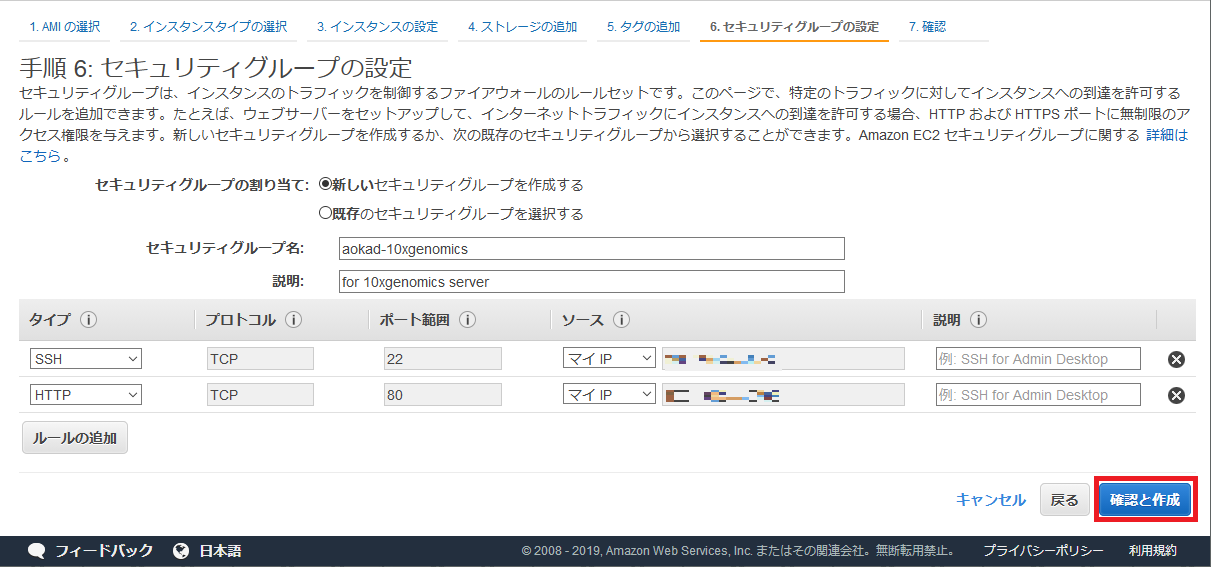
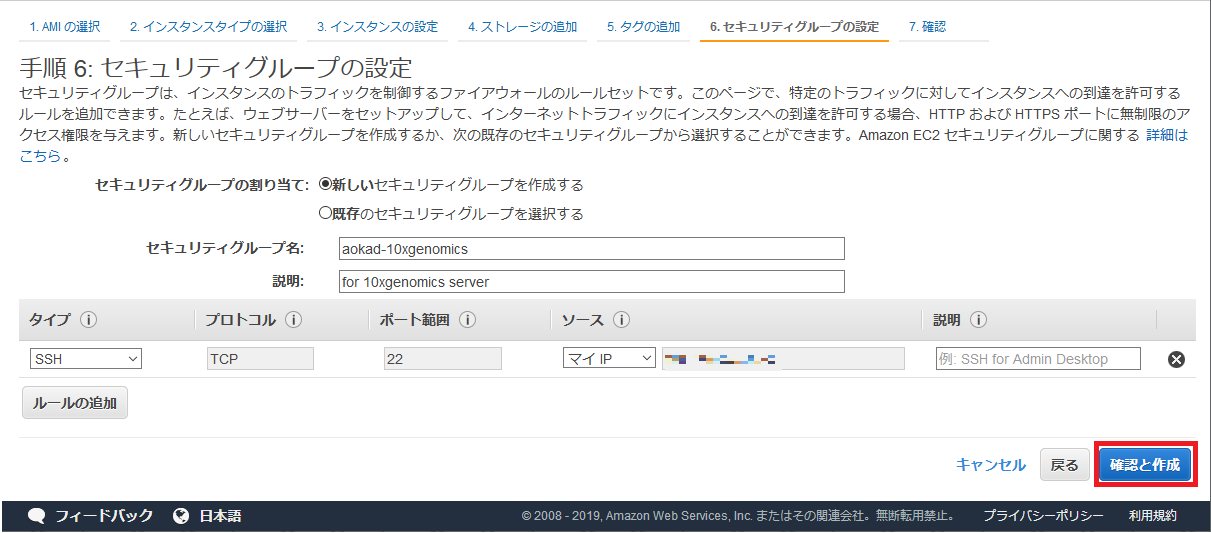
update versions

diff --git a/cellranger/html/99_ui.html b/cellranger/html/99_ui.html
@@ -11,21 +11,19 @@
 <a id="user-content-option-cell-ranger-ユーザインタフェースの利用" class="anchor" href="#option-cell-ranger-%E3%83%A6%E3%83%BC%E3%82%B6%E3%82%A4%E3%83%B3%E3%82%BF%E3%83%95%E3%82%A7%E3%83%BC%E3%82%B9%E3%81%AE%E5%88%A9%E7%94%A8" aria-hidden="true"><span aria-hidden="true" class="octicon octicon-link"></span></a>Option. Cell Ranger ユーザインタフェースの利用</h2>
 <p>cellranger パイプラインにはユーザインターフェールが用意されています。</p>
 <p>公式ドキュメント：<a href="https://support.10xgenomics.com/single-cell-gene-expression/software/pipelines/latest/advanced/ui" rel="nofollow">The Cell Ranger User Interface</a></p>
-<p>公開ポートはランダムなため、 <code>--uiport=80</code> をつけて80番固定することができます。<br>
-ユーザインターフェースの場所は実行ログに記載されています。</p>
-<pre><code>$ cellranger mkfastq --id=tiny-bcl5 --run=./data/cellranger-tiny-bcl-1.2.0 --samplesheet=./cellranger-tiny-bcl-samplesheet-1.2.0.csv --qc --uiport=80
+<p>ユーザインターフェースの場所は実行ログに記載されています。</p>
+<div class="highlight highlight-source-shell"><pre>$ cellranger mkfastq --id=tiny-bcl5 --run=./data/cellranger-tiny-bcl-1.2.0 --samplesheet=./cellranger-tiny-bcl-samplesheet-1.2.0.csv --qc --uiport=80
 /work/cellranger-3.0.2/cellranger-cs/3.0.2/bin
 cellranger mkfastq (3.0.2)
 Copyright (c) 2019 10x Genomics, Inc.  All rights reserved.
 -------------------------------------------------------------------------------
 
-Martian Runtime - '3.0.2-v3.2.0'
-Serving UI at http://ip-172-31-40-38:80?auth=sAsFRDQ4tBKJ9OGNG-7gJSWwPC9_8CfG3alhmyj0BC0 # &lt;- ★ここ
+Martian Runtime - <span class="pl-s"><span class="pl-pds">'</span>3.0.2-v3.2.0<span class="pl-pds">'</span></span>
+Serving UI at http://ip-172-31-40-38:80<span class="pl-k">?</span>auth=sAsFRDQ4tBKJ9OGNG-7gJSWwPC9_8CfG3alhmyj0BC0 <span class="pl-c"><span class="pl-c">#</span> &lt;- ★ここ</span>
 
 Running preflight checks (please wait)...
-（以下省略）
-</code></pre>
-<p>AWS インスタンスを使用していると、デフォルトで内部ネットワークアドレスが表示されていますので、外部ネットワークアドレスに読み直してアクセスします。</p>
+（以下省略）</pre></div>
+<p>AWS インスタンスで実行している、内部ネットワークアドレスが表示されていますので、外部ネットワークアドレスに読み直してアクセスします。</p>
 <p>インスタンスの外部ネットワークアドレスは以下のようにして取得することができます。</p>
 <p>AWS マネジメントコンソールから ec2 サービスを選択します。<br>
 左端のメニューから「インスタンス」を選択した後、目的のインスタンスを選択します。<br>
@@ -38,7 +36,28 @@ Running preflight checks (please wait)...
 <p><a href="../image/pipeline_monitoring_ui.PNG" target="_blank" rel="noopener noreferrer"><img src="../image/pipeline_monitoring_ui.PNG" alt="" style="max-width:100%;"></a></p>
 <p>より詳しい解説は <a href="https://support.10xgenomics.com/single-cell-gene-expression/software/pipelines/latest/advanced/ui" rel="nofollow">The Cell Ranger User Interface</a> を参照してください。</p>
 <hr>
-<p>以上です。</p>
+<p>※ 注意１</p>
+<p>AWS インスタンスにはセキュリティグループがあり、ポート番号を指定してアクセスを許可する必要があります。<br>
+以下の手順で設定します。</p>
+<p>AWS マネジメントコンソールから ec2 サービスを選択します。<br>
+左端のメニューから「インスタンス」を選択した後、現在のインスタンスを選択します。<br>
+右下にインスタンスの情報が記載されていますので、そこから「セキュリティグループ」のリンクをクリックします。</p>
+<p><a href="../image/ec2_35.PNG" target="_blank" rel="noopener noreferrer"><img src="../image/ec2_35.PNG" alt="" style="max-width:100%;"></a></p>
+<p>セキュリティグループの画面が表示されますので、「インバウンド」→「編集」とクリックして、セキュリティグループの編集画面を表示します。<br>
+「ルールの追加」ボタンをクリックして行を追加し、ポート番号を入力します。<br>
+アクセスを許可する IP アドレス範囲 (「マイIP」を選択すると、現在の自分のIPアドレスを設定できます) を入力したら「保存」を押してください。</p>
+<p><a href="../image/ec2_36.PNG" target="_blank" rel="noopener noreferrer"><img src="../image/ec2_36.PNG" alt="" style="max-width:100%;"></a></p>
+<p>※ 注意２<br>
+公開ポートはランダムなため、 <code>--uiport=3600</code> のように <code>--uiport</code> オプションをつけることで固定することができます。</p>
+<p>ただし、Linux では TCP/IP ポート番号のうち 1024 未満は特権ポート (privileged ports) といい、特権プロセス（CAP_NET_BIND_SERVICE ケーパビリティを持つプロセス）でないとアクセスできません。<br>
+そのため、3600 など 1024 以上のポート番号を指定したほうがよいでしょう。</p>
+<hr>
+<p>以上です。
+不要になった AWS インスタンスは適宜停止するか削除してください。</p>
+<ul>
+<li><a href="./aws_ec2_instance.html">AWS EC2 を利用する場合</a></li>
+<li><a href="./aws_cloud9.html">AWS Cloud9 を利用する場合</a></li>
+</ul>
 
 </body>
 </html>

diff --git a/cellranger/html/01_set_up.html b/cellranger/html/01_set_up.html
@@ -73,7 +73,7 @@ mount /dev/sdb /work
 <p><a href="../image/download1.PNG" target="_blank" rel="noopener noreferrer"><img src="../image/download1.PNG" alt="" style="max-width:100%;"></a></p>
 <p>ダウンロードしたファイルを解凍します。<br>
 ファイル名のバージョンはダウンロードしたファイルに合わせてください。</p>
-<div class="highlight highlight-source-shell"><pre>tar -xzvf cellranger-3.0.2.tar.gz</pre></div>
+<div class="highlight highlight-source-shell"><pre>tar -xzvf cellranger-3.1.0.tar.gz</pre></div>
 <h3>
 <a id="user-content-1-3-リファレンスファイルをダウンロードして解凍する" class="anchor" href="#1-3-%E3%83%AA%E3%83%95%E3%82%A1%E3%83%AC%E3%83%B3%E3%82%B9%E3%83%95%E3%82%A1%E3%82%A4%E3%83%AB%E3%82%92%E3%83%80%E3%82%A6%E3%83%B3%E3%83%AD%E3%83%BC%E3%83%89%E3%81%97%E3%81%A6%E8%A7%A3%E5%87%8D%E3%81%99%E3%82%8B" aria-hidden="true"><span aria-hidden="true" class="octicon octicon-link"></span></a>1-3. リファレンスファイルをダウンロードして解凍する</h3>
 <p>1-2 で開いたダウンロード画面にリファレンスのダウンロードコマンドも表示されています。<br>
@@ -81,11 +81,11 @@ mount /dev/sdb /work
 <p><a href="../image/download2.PNG" target="_blank" rel="noopener noreferrer"><img src="../image/download2.PNG" alt="" style="max-width:100%;"></a></p>
 <p>1-2 と同様にダウンロードしたファイルを解凍します。<br>
 ファイル名のバージョンはダウンロードしたファイルに合わせてください。</p>
-<div class="highlight highlight-source-shell"><pre>tar -xzvf refdata-cellranger-GRCh38-3.0.0.tar.gz</pre></div>
+<div class="highlight highlight-source-shell"><pre>tar -xzvf refdata-cellranger-GRCh38-and-mm10-3.1.0.tar.gz</pre></div>
 <h3>
 <a id="user-content-1-4-cell-ranger-にパスを通す" class="anchor" href="#1-4-cell-ranger-%E3%81%AB%E3%83%91%E3%82%B9%E3%82%92%E9%80%9A%E3%81%99" aria-hidden="true"><span aria-hidden="true" class="octicon octicon-link"></span></a>1-4. Cell Ranger にパスを通す</h3>
 <p>Cell Ranger ディレクトリを PATH に追加します。これで <code>cellranger</code> コマンドを起動することができます。</p>
-<div class="highlight highlight-source-shell"><pre><span class="pl-k">export</span> PATH=/work/cellranger-3.0.2:<span class="pl-smi">$PATH</span></pre></div>
+<div class="highlight highlight-source-shell"><pre><span class="pl-k">export</span> PATH=/work/cellranger-3.1.0:<span class="pl-smi">$PATH</span></pre></div>
 <h3>
 <a id="user-content-1-5-インストールの確認" class="anchor" href="#1-5-%E3%82%A4%E3%83%B3%E3%82%B9%E3%83%88%E3%83%BC%E3%83%AB%E3%81%AE%E7%A2%BA%E8%AA%8D" aria-hidden="true"><span aria-hidden="true" class="octicon octicon-link"></span></a>1-5. インストールの確認</h3>
 <p>cellranger パイプラインが正しくインストールされていることを確認するために <code>cellranger testrun</code> を実行します。</p>
@@ -101,7 +101,7 @@ mount /dev/sdb /work
 <p>前述までに cellranger パイプラインをインストールしましたが、イルミナの <code>bcl2fastq2</code> は入っていませんので、別途インストールする必要があります。</p>
 <div class="highlight highlight-source-shell"><pre>wget http://jp.support.illumina.com/content/dam/illumina-support/documents/downloads/software/bcl2fastq/bcl2fastq2-v2-20-0-linux-x86-64.zip
 unzip bcl2fastq2-v2-20-0-linux-x86-64.zip
-yum install bcl2fastq2-v2.20.0.422-Linux-x86_64.rpm</pre></div>
+sudo yum install -y bcl2fastq2-v2.20.0.422-Linux-x86_64.rpm</pre></div>
 <hr>
 <p><a href="./02_mkfastq.html">2. cellranger mkfastq を実行してみる</a> に進んでください。</p>
 

diff --git a/cellranger/html/03_count.html b/cellranger/html/03_count.html
@@ -16,7 +16,7 @@
 <p>順番に実行していれば 2-5 までの結果がありますので、それを使用して <code>cellranger count</code> コマンドを実行します。</p>
 <pre><code>cd /work
 cellranger count --id=tiny-bcl3-count \
---transcriptome=./refdata-cellranger-GRCh38-3.0.0 \
+--transcriptome=./refdata-cellranger-GRCh38-and-mm10-3.1.0 \
 --fastqs=./tiny-bcl3/outs/fastq_path \
 --expect-cells=1000
 </code></pre>
@@ -37,15 +37,14 @@ tar xvf pbmc_1k_v3_fastqs.tar
 --fastqs にダウンロードしたサンプルのfastqディレクトリを指定します。<br>
 --except-cells にはサンプルのページに <code>run with --expect-cells=1000</code> と記載がありますので、1000を指定します。</p>
 <div class="highlight highlight-source-shell"><pre>cellranger count --id=pbmc_1k_v3 \
---transcriptome=./refdata-cellranger-GRCh38-3.0.0 \
+--transcriptome=./refdata-cellranger-GRCh38-and-mm10-3.1.0 \
 --fastqs=./pbmc_1k_v3_fastqs/ \
 --expect-cells=1000</pre></div>
 <p>以下はログです。</p>
 <pre><code>$ cellranger count --id=pbmc_1k_v3 \
-&gt; --transcriptome=./refdata-cellranger-GRCh38-3.0.0 \
+&gt; --transcriptome=./refdata-cellranger-GRCh38-and-mm10-3.1.0 \
 &gt; --fastqs=./pbmc_1k_v3_fastqs/ \
-&gt; --expect-cells=1000 \
-&gt; --uiport=80
+&gt; --expect-cells=1000
 (省略)
 
 Outputs:

diff --git a/cellranger/html/aws_ec2_instance.html b/cellranger/html/aws_ec2_instance.html
@@ -43,8 +43,7 @@
 <p>最後は「セキュリティグループの設定」です。<br>
 今回は新しくセキュリティグループを作成しますが、既存のグループがあればそちらを選択しても構いません。<br>
 まず「セキュリティグループ名」「説明」を入力します。<br>
-次にタイプ「SSH」を選択し、ソースにアクセスを許可しようとしている IP アドレスを入力します。「マイIP」を選択すると、現在の自分のIPアドレスを設定することができます。<br>
-さらに「ルールの追加」ボタンを押して、行を追加し、同様に「HTTP」もアクセスを許可しておきます。<br>
+タイプ「SSH」を選択し、ソースにアクセスを許可しようとしている IP アドレスを入力します。「マイIP」を選択すると、現在の自分のIPアドレスを設定することができます。<br>
 入力後、ページの最後にある「確認と作成」ボタンを押します。</p>
 <p><a href="../image/ec2_11.PNG" target="_blank" rel="noopener noreferrer"><img src="../image/ec2_11.PNG" alt="" style="max-width:100%;"></a></p>
 <p>確認画面が表示されますので、問題なければ「起動」ボタンを押してください。</p>

diff --git a/cellranger/html/02_mkfastq.html b/cellranger/html/02_mkfastq.html
@@ -45,7 +45,7 @@ wget http://cf.10xgenomics.com/supp/cell-exp/cellranger-tiny-bcl-samplesheet-1.2
 │         ├── cellranger-tiny-bcl-1.2.0
 │         └── cellranger-tiny-bcl-simple-1.2.0.csv
 │         └── cellranger-tiny-bcl-samplesheet-1.2.0.csv
-└── refdata-cellranger-GRCh38-3.0.0</pre></div>
+└── refdata-cellranger-GRCh38-and-mm10-3.1.0</pre></div>
 <h3>
 <a id="user-content-2-2-簡単な-csv-サンプルシートを使用して-mkfastq-を実行する" class="anchor" href="#2-2-%E7%B0%A1%E5%8D%98%E3%81%AA-csv-%E3%82%B5%E3%83%B3%E3%83%97%E3%83%AB%E3%82%B7%E3%83%BC%E3%83%88%E3%82%92%E4%BD%BF%E7%94%A8%E3%81%97%E3%81%A6-mkfastq-%E3%82%92%E5%AE%9F%E8%A1%8C%E3%81%99%E3%82%8B" aria-hidden="true"><span aria-hidden="true" class="octicon octicon-link"></span></a>2-2. 簡単な csv サンプルシートを使用して mkfastq を実行する</h3>
 <p><code>cellranger mkfastq</code> コマンドを実行します。</p>

diff --git a/cellranger/markdown/99_ui.md b/cellranger/markdown/99_ui.md
@@ -6,10 +6,9 @@ cellranger パイプラインにはユーザインターフェールが用意さ
 
 公式ドキュメント：[The Cell Ranger User Interface](https://support.10xgenomics.com/single-cell-gene-expression/software/pipelines/latest/advanced/ui)
 
-公開ポートはランダムなため、 `--uiport=80` をつけて80番固定することができます。  
 ユーザインターフェースの場所は実行ログに記載されています。
 
-```
+```Bash
 $ cellranger mkfastq --id=tiny-bcl5 --run=./data/cellranger-tiny-bcl-1.2.0 --samplesheet=./cellranger-tiny-bcl-samplesheet-1.2.0.csv --qc --uiport=80
 /work/cellranger-3.0.2/cellranger-cs/3.0.2/bin
 cellranger mkfastq (3.0.2)
@@ -23,7 +22,7 @@ Running preflight checks (please wait)...
 （以下省略）
 ```
 
-AWS インスタンスを使用していると、デフォルトで内部ネットワークアドレスが表示されていますので、外部ネットワークアドレスに読み直してアクセスします。
+AWS インスタンスで実行している、内部ネットワークアドレスが表示されていますので、外部ネットワークアドレスに読み直してアクセスします。
 
 インスタンスの外部ネットワークアドレスは以下のようにして取得することができます。
 
@@ -46,4 +45,34 @@ http://13.58.138.49:80?auth=sAsFRDQ4tBKJ9OGNG-7gJSWwPC9_8CfG3alhmyj0BC0
 
 ---
 
+※ 注意１  
+
+AWS インスタンスにはセキュリティグループがあり、ポート番号を指定してアクセスを許可する必要があります。  
+以下の手順で設定します。  
+
+AWS マネジメントコンソールから ec2 サービスを選択します。  
+左端のメニューから「インスタンス」を選択した後、現在のインスタンスを選択します。  
+右下にインスタンスの情報が記載されていますので、そこから「セキュリティグループ」のリンクをクリックします。  
+
+![](../image/ec2_35.PNG)
+
+セキュリティグループの画面が表示されますので、「インバウンド」→「編集」とクリックして、セキュリティグループの編集画面を表示します。  
+「ルールの追加」ボタンをクリックして行を追加し、ポート番号を入力します。  
+アクセスを許可する IP アドレス範囲 (「マイIP」を選択すると、現在の自分のIPアドレスを設定できます) を入力したら「保存」を押してください。
+
+![](../image/ec2_36.PNG)
+
+※ 注意２  
+公開ポートはランダムなため、 `--uiport=3600` のように `--uiport` オプションをつけることで固定することができます。  
+
+ただし、Linux では TCP/IP ポート番号のうち 1024 未満は特権ポート (privileged ports) といい、特権プロセス（CAP_NET_BIND_SERVICE ケーパビリティを持つプロセス）でないとアクセスできません。  
+そのため、3600 など 1024 以上のポート番号を指定したほうがよいでしょう。  
+
+---
+
 以上です。
+不要になった AWS インスタンスは適宜停止するか削除してください。
+
+ - [AWS EC2 を利用する場合](./aws_ec2_instance.html)
+ - [AWS Cloud9 を利用する場合](./aws_cloud9.html)
+

diff --git a/cellranger/markdown/03_count.md b/cellranger/markdown/03_count.md
@@ -13,7 +13,7 @@
 ```
 cd /work
 cellranger count --id=tiny-bcl3-count \
---transcriptome=./refdata-cellranger-GRCh38-3.0.0 \
+--transcriptome=./refdata-cellranger-GRCh38-and-mm10-3.1.0 \
 --fastqs=./tiny-bcl3/outs/fastq_path \
 --expect-cells=1000
 ```
@@ -45,7 +45,7 @@ cellranger cout を実行します。
 
 ```Bash
 cellranger count --id=pbmc_1k_v3 \
---transcriptome=./refdata-cellranger-GRCh38-3.0.0 \
+--transcriptome=./refdata-cellranger-GRCh38-and-mm10-3.1.0 \
 --fastqs=./pbmc_1k_v3_fastqs/ \
 --expect-cells=1000
 ```
@@ -54,10 +54,9 @@ cellranger count --id=pbmc_1k_v3 \
 
 ```
 $ cellranger count --id=pbmc_1k_v3 \
-> --transcriptome=./refdata-cellranger-GRCh38-3.0.0 \
+> --transcriptome=./refdata-cellranger-GRCh38-and-mm10-3.1.0 \
 > --fastqs=./pbmc_1k_v3_fastqs/ \
-> --expect-cells=1000 \
-> --uiport=80
+> --expect-cells=1000
 (省略)
 
 Outputs:

diff --git a/cellranger/markdown/02_mkfastq.md b/cellranger/markdown/02_mkfastq.md
@@ -62,7 +62,7 @@ tar -xzvf cellranger-tiny-bcl-1.2.0.tar.gz
 │         ├── cellranger-tiny-bcl-1.2.0
 │         └── cellranger-tiny-bcl-simple-1.2.0.csv
 │         └── cellranger-tiny-bcl-samplesheet-1.2.0.csv
-└── refdata-cellranger-GRCh38-3.0.0
+└── refdata-cellranger-GRCh38-and-mm10-3.1.0
 ```
 
 ### 2-2. 簡単な csv サンプルシートを使用して mkfastq を実行する
